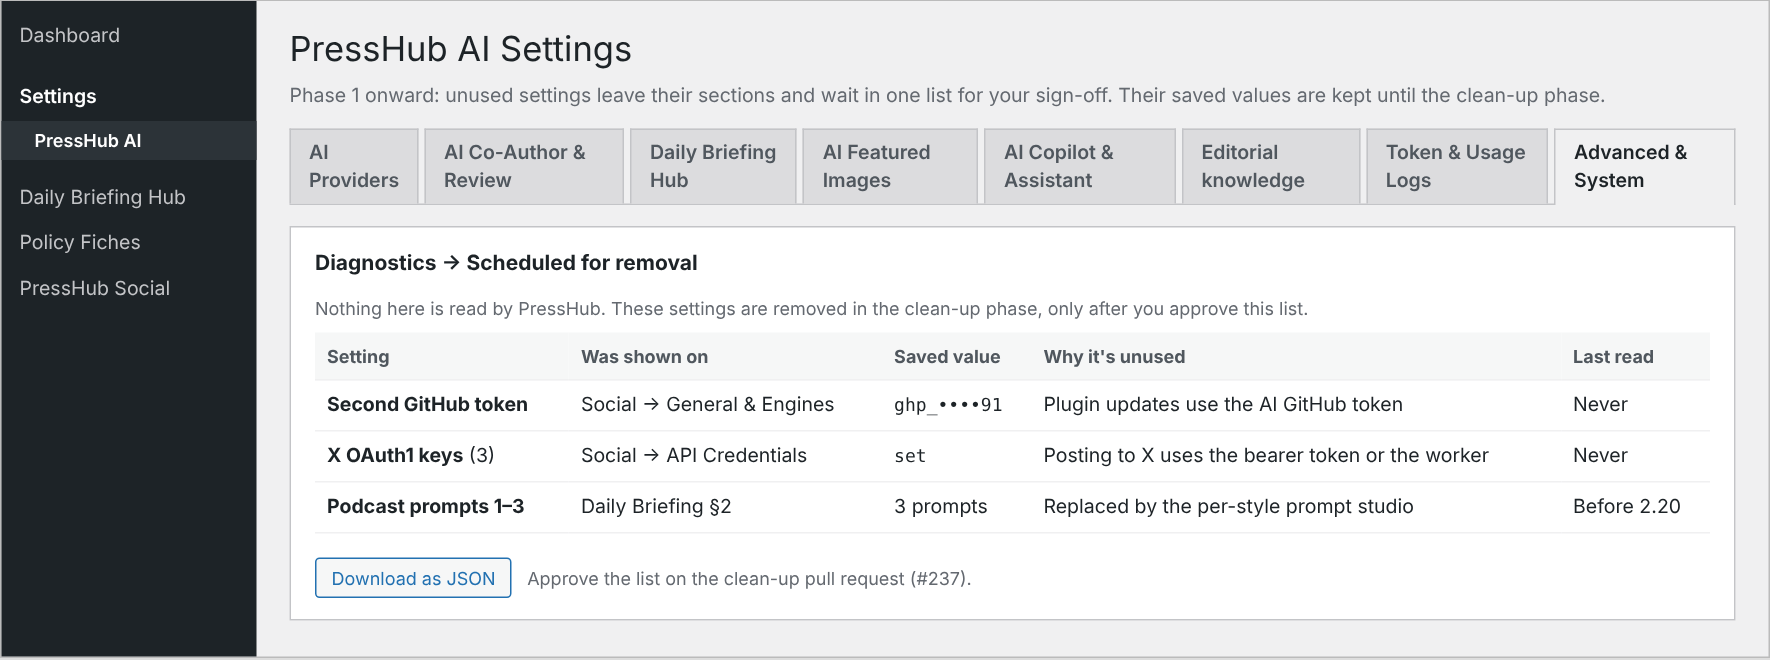
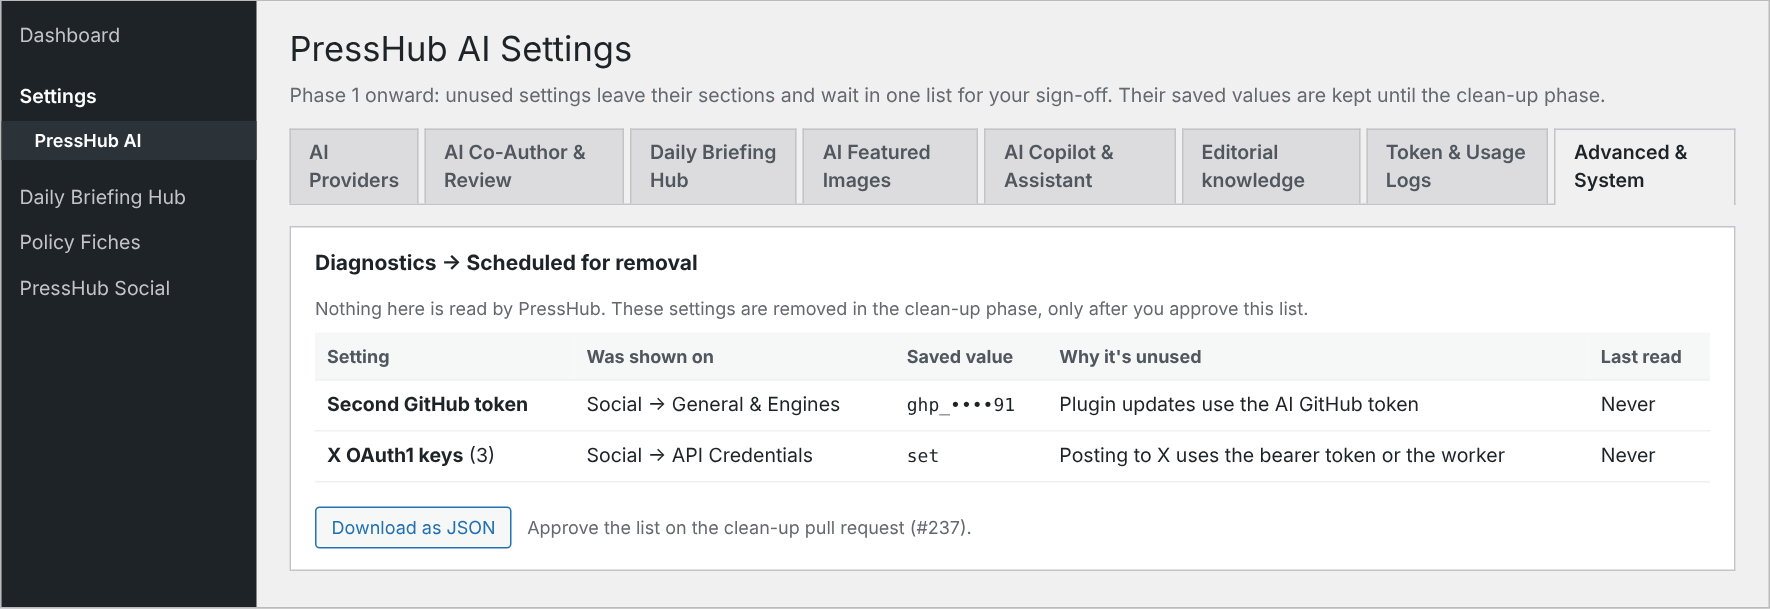
docs(settings): podcast prompts 1–3 stay active in the removal and clean-up mockups
The registry audit (#245) found resolve_podcast_prompt() still reads them.

Claude-Session: https://claude.ai/code/session_013L9h76MmkfmFz1rkbvCuzK

diff --git a/docs/settings-overhaul/mockups/mockups.html b/docs/settings-overhaul/mockups/mockups.html
@@ -92,7 +92,6 @@ tr.erow td{background:#fcf0f1}.errtxt{color:#b32d2e;font-weight:600;font-size:12
  <table><tr><th>Setting</th><th>Was shown on</th><th>Saved value</th><th>Why it's unused</th><th>Last read</th></tr>
  <tr><td><b>Second GitHub token</b></td><td>Social → General &amp; Engines</td><td class="mono">ghp_••••91</td><td>Plugin updates use the AI GitHub token</td><td>Never</td></tr>
  <tr><td><b>X OAuth1 keys</b> (3)</td><td>Social → API Credentials</td><td class="mono">set</td><td>Posting to X uses the bearer token or the worker</td><td>Never</td></tr>
- <tr><td><b>Podcast prompts 1–3</b></td><td>Daily Briefing §2</td><td>3 prompts</td><td>Replaced by the per-style prompt studio</td><td>Before 2.20</td></tr>
  </table>
  <div class="save"><span class="btn">Download as JSON</span><span class="hint">Approve the list on the clean-up pull request (#237).</span></div></div>
  </div></div>
@@ -227,14 +226,13 @@ tr.erow td{background:#fcf0f1}.errtxt{color:#b32d2e;font-weight:600;font-size:12
 <div class="screen" id="p5-migration">
  <div class="side"><div>Dashboard</div><div class="gap"></div><div class="top cur">PressHub</div><div class="sub cur">Usage &amp; logs</div><div class="sub">Settings</div></div>
  <div class="main"><h1>PressHub — Usage &amp; logs</h1><div class="crumb">Phase 5: clean-up once every setting has its place. Stored names stay as they are; only unused settings and old key fallbacks go.</div>
- <div class="notice ok"><b>PressHub cleaned up its settings.</b> 5 unused settings were removed after your sign-off. A copy of all settings was saved first. Nothing you use changed. <a href="#">See the report</a> · <a href="#">Dismiss</a></div>
+ <div class="notice ok"><b>PressHub cleaned up its settings.</b> 4 unused settings were removed after your sign-off. A copy of all settings was saved first. Nothing you use changed. <a href="#">See the report</a> · <a href="#">Dismiss</a></div>
  <div class="card"><h2>Clean-up report <span class="pill ok">Done 2 Dec 2026, 06:01</span></h2>
  <table><tr><th>Setting</th><th>What happened</th><th>Why</th><th></th></tr>
  <tr><td><b>Second GitHub token</b></td><td>Removed</td><td>Plugin updates use the AI GitHub token</td><td><a href="#">Details</a></td></tr>
  <tr><td><b>X OAuth1 keys</b> (3)</td><td>Removed</td><td>Never read</td><td><a href="#">Details</a></td></tr>
- <tr><td><b>Podcast prompts 1–3</b></td><td>Removed</td><td>Replaced by the prompt studio</td><td><a href="#">Details</a></td></tr>
  <tr><td><b>Old Gemini key</b></td><td>Copied to Connections → Gemini, old copy no longer read</td><td>Same key in two places</td><td><a href="#">Details</a></td></tr>
- <tr class="adv"><td colspan="4" class="mono">Details: presshub_social_twitter_api_key, presshub_social_twitter_api_secret, presshub_social_twitter_access_token_secret · deleted on upgrade</td></tr>
+ <tr class="adv"><td colspan="4" class="mono">Details: presshub_social_github_token, presshub_social_twitter_api_key, presshub_social_twitter_api_secret, presshub_social_twitter_access_secret · deleted on upgrade</td></tr>
  </table>
  <div class="save"><span class="btn">Download the pre-clean-up copy (JSON, no keys)</span><span class="hint">The worker receives the same fields as before, so it doesn't need an update.</span></div></div>
  </div></div>
